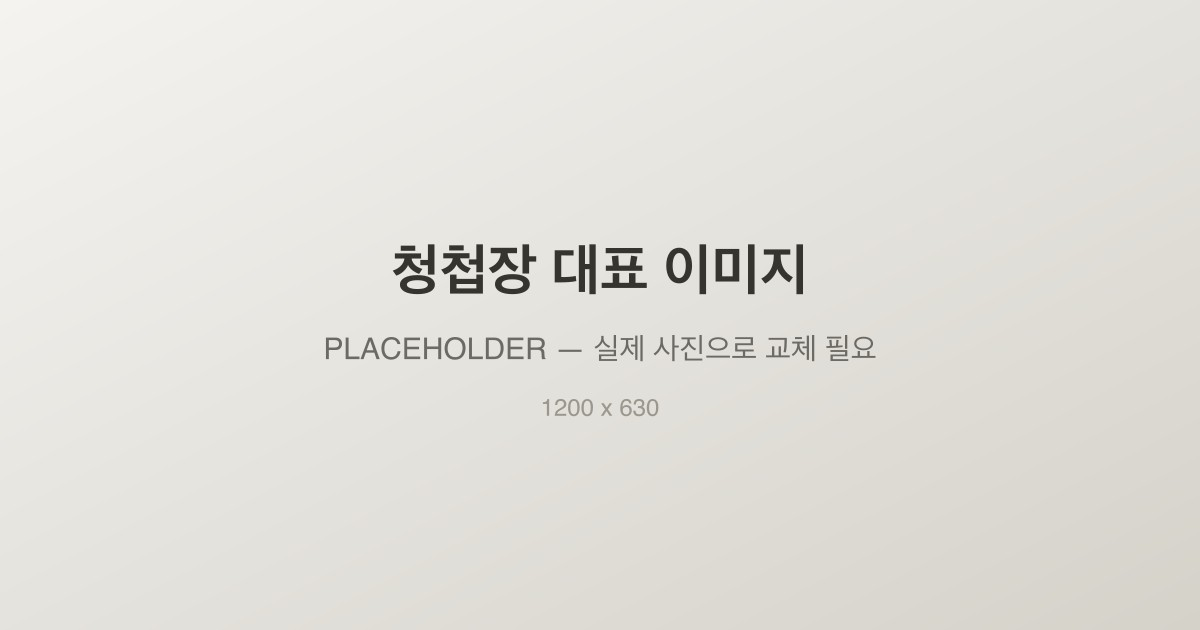
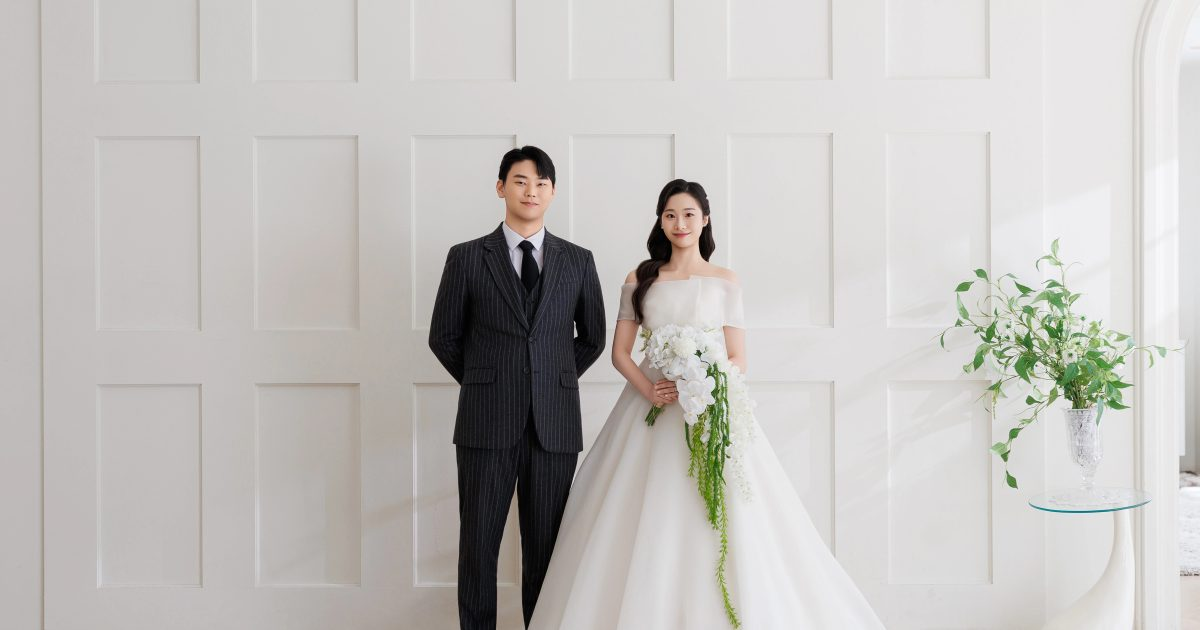
feat: 실제 웨딩 사진 38장 투입, 파이프라인의 webp 미인식·히어로 판별 결함 수정
optimize-photos.ts의 확장자 필터가 jpg·png만 받아 .webp 원본 38장이 전부
조용히 건너뛰어졌다. 에러 없이 gallery.json이 []로 덮어써지는 경로였다.

- 확장자 필터에 webp 추가
- 히어로를 파일명 'hero' 정확일치가 아니라 --hero 인자로 지정
- 히어로를 갤러리에서 제외하지 않고 함께 넣음 (요청)
- --og 로 1200x630 중앙 크롭 og.jpg 생성 (카카오 스크래퍼 캐시 때문에 jpg)
- 원본 0장·히어로 파일명 오타 시 매니페스트를 덮어쓰지 않고 즉시 실패

히어로 KIPT3152-3, OG KIPT1396-3. 저장소 증가분 17MB.

diff --git a/scripts/optimize-photos.ts b/scripts/optimize-photos.ts
@@ -2,17 +2,18 @@ import { mkdir, readdir, writeFile } from 'node:fs/promises'
 import path from 'node:path'
 import sharp from 'sharp'
 
-const SRC = process.argv[2]
 const OUT_DIR = 'public/photos'
 const MANIFEST = 'src/data/gallery.json'
 const WIDTHS = [640, 1080, 1620]
 
-if (!SRC) {
-  console.error('사용법: npm run photos -- <원본_JPG_디렉터리>')
-  console.error('  히어로와 갤러리 사진을 한 디렉터리에 모아 한 번만 돌리면 된다.')
-  console.error('  hero.jpg 는 webp로 변환되지만 갤러리 매니페스트에서는 제외된다.')
-  process.exit(1)
-}
+// OG 표준 크기. 카카오톡·페이스북 스크래퍼가 이 비율(1.91:1)을 기대하고,
+// 어긋나면 스크래퍼가 제멋대로 잘라서 구도를 통제할 수 없다.
+const OG_SIZE = { width: 1200, height: 630 }
+
+// OG는 webp가 아니라 jpg로 낸다. 카카오 스크래퍼의 webp 지원이 확실하지 않고,
+// 미리보기가 안 뜨는 것은 재배포로도 바로 고쳐지지 않는다(스크래퍼가 캐시한다).
+// 갤러리와 달리 딱 한 장이라 용량 이득도 무의미하다.
+const OG_FILE = 'og.jpg'
 
 interface GalleryPhoto {
   base: string
@@ -22,18 +23,66 @@ interface GalleryPhoto {
   alt: string
 }
 
+function usage(message: string): never {
+  console.error(`오류: ${message}\n`)
+  console.error('사용법: npm run photos -- <원본_디렉터리> --hero <파일명> [--og <파일명>]')
+  console.error('  <원본_디렉터리>  jpg·png·webp 원본을 모아둔 디렉터리 (저장소 밖에 두는 것을 권장)')
+  console.error('  --hero <파일명>  히어로 배경 사진. 갤러리에도 함께 들어간다.')
+  console.error('  --og   <파일명>  카카오톡 공유 미리보기 사진. 1200x630으로 중앙 크롭된다.')
+  console.error('\n예: npm run photos -- ~/Desktop/wedding-photos --hero KIPT3152-3.webp --og KIPT1396-3.webp')
+  process.exit(1)
+}
+
+function parseArgs(argv: string[]) {
+  const positional: string[] = []
+  const flags: Record<string, string> = {}
+  for (let i = 0; i < argv.length; i++) {
+    const arg = argv[i]
+    if (arg === '--hero' || arg === '--og') {
+      const value = argv[++i]
+      if (!value || value.startsWith('--')) usage(`${arg} 뒤에 파일명이 없다.`)
+      flags[arg.slice(2)] = value
+    } else {
+      positional.push(arg)
+    }
+  }
+  return { src: positional[0], hero: flags.hero, og: flags.og }
+}
+
 async function main() {
+  const { src, hero, og } = parseArgs(process.argv.slice(2))
+
+  if (!src) usage('원본 디렉터리를 지정해야 한다.')
+  if (!hero) usage('--hero 로 히어로 사진을 지정해야 한다.')
+
   await mkdir(OUT_DIR, { recursive: true })
 
-  const files = (await readdir(SRC))
-    .filter((f) => /\.(jpe?g|png)$/i.test(f))
+  // webp를 빠뜨리면 안 된다. 스튜디오에서 받는 원본이 jpg라는 보장이 없고,
+  // 확장자가 안 걸리면 그 파일은 조용히 건너뛰어진다 — 에러 없이, 그냥 없는 사진이 된다.
+  const files = (await readdir(src))
+    .filter((f) => /\.(jpe?g|png|webp)$/i.test(f))
     .sort()
+
+  // 한 장도 못 찾았는데 계속 진행하면 매니페스트를 빈 배열로 덮어써서 갤러리가 통째로
+  // 사라진다. 그것도 빌드는 성공한 채로. 조용히 지우느니 여기서 죽는 편이 낫다.
+  if (files.length === 0) {
+    usage(`${src} 에서 jpg·png·webp 파일을 하나도 찾지 못했다.`)
+  }
+
+  // 오타 하나로 히어로가 없는 사이트가 배포되는 것을 막는다. 아래 루프에서
+  // 매칭에 실패해도 아무 일도 일어나지 않으므로, 시작 전에 확인해야 한다.
+  if (!files.includes(hero)) {
+    usage(`--hero 로 지정한 '${hero}' 가 ${src} 에 없다. 있는 파일: ${files.slice(0, 5).join(', ')} …`)
+  }
+  if (og && !files.includes(og)) {
+    usage(`--og 로 지정한 '${og}' 가 ${src} 에 없다.`)
+  }
 
   const manifest: GalleryPhoto[] = []
 
   for (const file of files) {
     const name = path.parse(file).name
-    const input = path.join(SRC, file)
+    const input = path.join(src, file)
     const meta = await sharp(input).metadata()
     const srcWidth = meta.width ?? 0
     const srcHeight = meta.height ?? 0
@@ -47,16 +96,18 @@ async function main() {
         .toFile(path.join(OUT_DIR, `${name}-${width}.webp`))
     }
 
-    // hero는 갤러리 항목이 아니다. 히어로 섹션이 /photos/hero-*.webp 를 직접 참조하므로
-    // webp 산출물은 위에서 이미 만들었고, 매니페스트에서만 뺀다.
-    //
-    // 이 세 줄이 없으면 원본을 한 디렉터리에 모아 돌렸을 때 히어로가 라이트박스에
-    // 섞여 들어간다. 디렉터리를 나눠 두 번 돌려 피할 수도 있지만, 매니페스트는 매 실행마다
-    // 통째로 덮어써지므로 순서가 반대면 갤러리 사진이 조용히 사라진다.
-    // 실제 스튜디오 사진을 넣는 날 그걸 기억하고 있을 사람에게 기대지 말 것.
-    if (/^hero$/i.test(name)) {
-      console.log(`  ${file} → ${name}-{${WIDTHS.join(',')}}.webp (히어로 — 갤러리 제외)`)
-      continue
+    // 히어로는 Hero.astro가 /photos/hero-{width}.webp 를 직접 참조하므로 그 이름으로
+    // 한 벌 더 만든다. 원본 이름의 산출물과 내용이 같아 ~430KB가 중복되지만, 그 대가로
+    // Hero.astro가 매니페스트 순서나 파일명에 전혀 의존하지 않게 된다. 사진을 교체하는
+    // 날 갤러리 정렬이 바뀌어도 히어로는 그대로다 — 그 견고함이 430KB보다 값싸다.
+    if (file === hero) {
+      for (const width of WIDTHS) {
+        if (width > srcWidth) continue
+        await sharp(input)
+          .resize({ width })
+          .webp({ quality: 78 })
+          .toFile(path.join(OUT_DIR, `hero-${width}.webp`))
+      }
     }
 
     // LQIP — 16px 폭 blur. 인라인 data URI라 추가 요청이 없다.
@@ -74,11 +125,27 @@ async function main() {
       alt: '',
     })
 
-    console.log(`  ${file} → ${name}-{${WIDTHS.join(',')}}.webp`)
+    const tag = file === hero ? ' (히어로 — 갤러리에도 포함)' : ''
+    console.log(`  ${file} → ${name}-{${WIDTHS.join(',')}}.webp${tag}`)
+  }
+
+  if (og) {
+    // fit:'cover' + position:'center' 로 1.91:1을 채운다. 위아래(세로 원본이면 좌우)가
+    // 잘려나가므로, 실제로 잘린 결과를 눈으로 확인하고 나서 이 파일명을 정할 것.
+    // 세로 사진(2:3)을 넣으면 얼굴 높이에서 잘린다.
+    await sharp(path.join(src, og))
+      .resize({ ...OG_SIZE, fit: 'cover', position: 'center' })
+      .jpeg({ quality: 82 })
+      .toFile(path.join(OUT_DIR, OG_FILE))
+    console.log(`  ${og} → ${OG_FILE} (${OG_SIZE.width}x${OG_SIZE.height} 중앙 크롭)`)
   }
 
   await writeFile(MANIFEST, JSON.stringify(manifest, null, 2) + '\n', 'utf8')
   console.log(`\n${manifest.length}장 처리, ${MANIFEST} 갱신`)
+  if (!og) {
+    console.log('참고: --og 를 주지 않아 og.jpg 는 그대로 두었다.')
+  }
+  console.log(`다음: ${MANIFEST} 의 alt 값을 채울 것 (현재 전부 빈 문자열).`)
 }
 
 main().catch((error) => {
